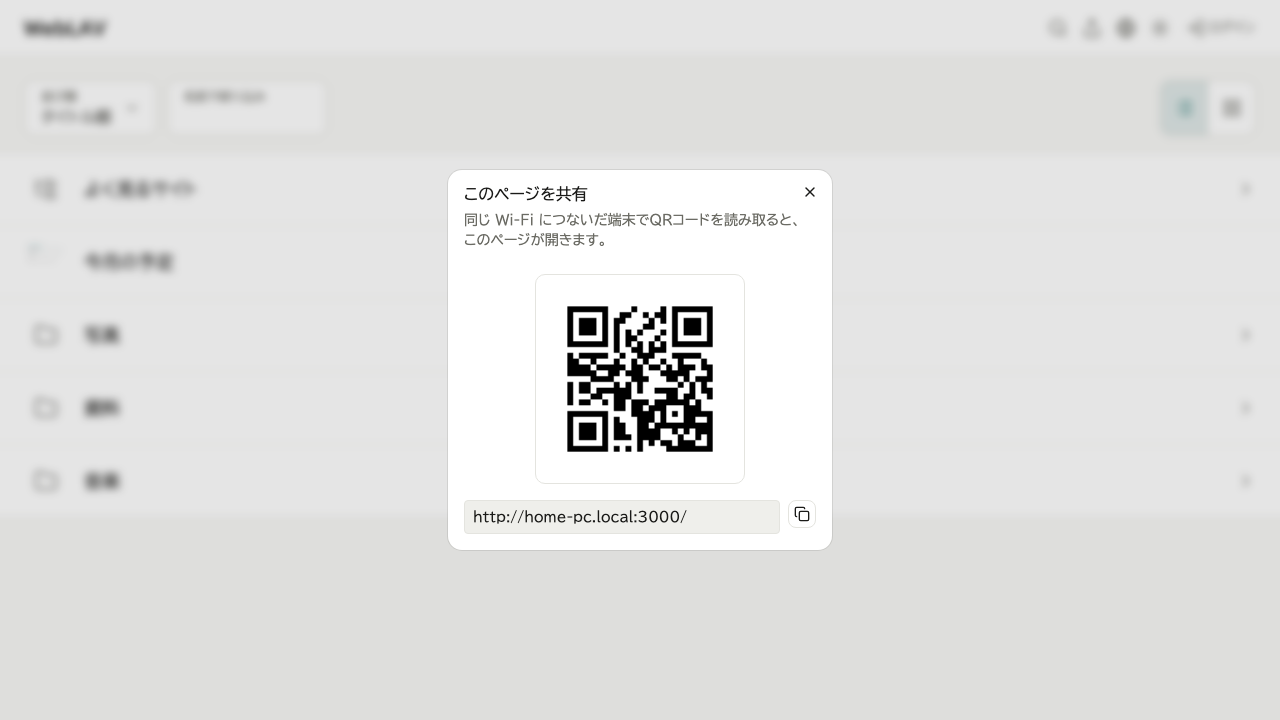
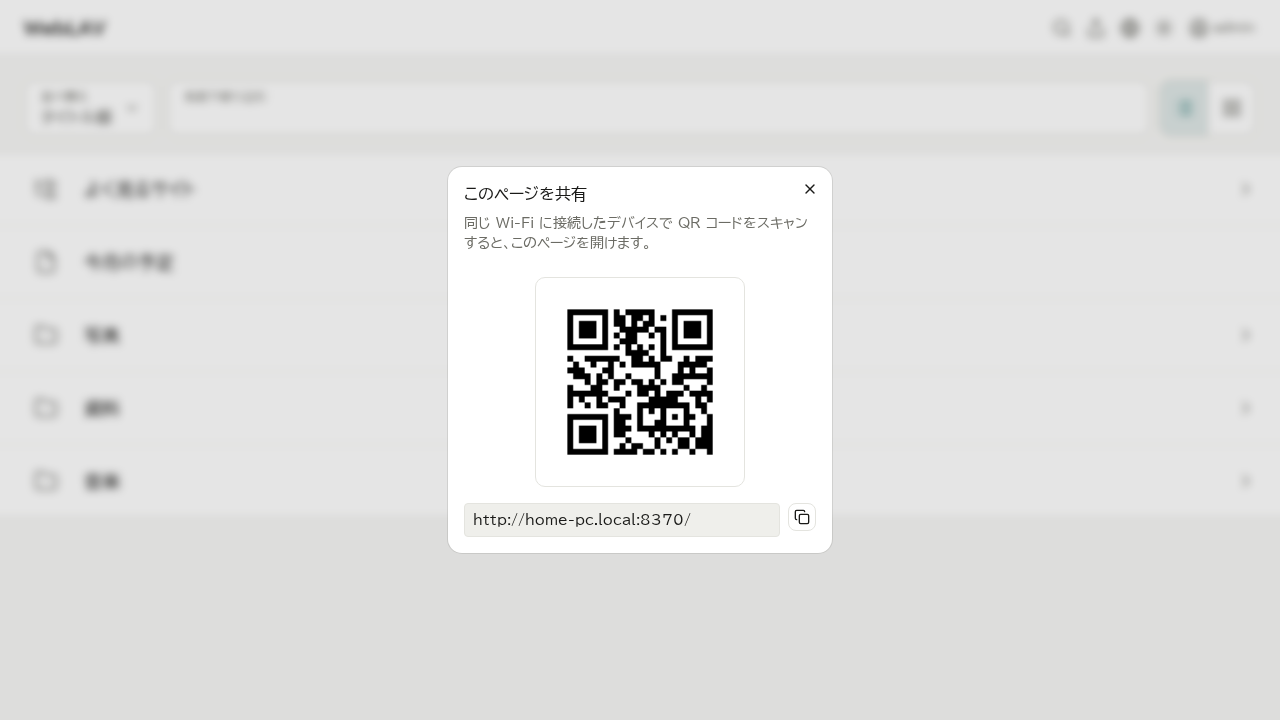
既定のポートを 3000 から 8370 にする
3000 は Node・Rails・Grafana などの開発用のツールが既定で使う番号で、ぶつかると WebLAV が 3001 にずれ、ほかの端末のブックマークや QR コードが開けなくなる。IANA で未割り当て (8352-8375) で、よく使われる番号とも重ならない 8370 にした。

- サーバーの設定の既定値と config.example.toml、そのテスト
- 開発用の画面の転送先 (vite) と、e2e・撮影のスクリプトの例
- マニュアル (ja・en) と docs/distribution.md の番号
- 紹介のサイトの共有の QR の画像を撮り直し、代替テキストの番号を直した

diff --git a/frontend/scripts/generate-spec.ts b/frontend/scripts/generate-spec.ts
@@ -1,7 +1,7 @@
 // `just spec` から呼ばれるアプリ仕様書ジェネレータ。
 //
 // 1. 一時 WEBLAV_HOME を作り、専用ポートで `target/debug/weblav-service` を起動する
-//    (開発中の dev-backend/:3000 と衝突しないように、かつ既存の開発用DBを汚さないように)。
+//    (開発中の dev-backend/:8370 と衝突しないように、かつ既存の開発用DBを汚さないように)。
 // 2. seed.sql を node:sqlite で直接流し込む(Rust側の変更なしでシードできる)。
 // 3. Playwright でスクリーンショットを撮り、paraglideのメッセージを直接importして文言を取る。
 //    各ショットは既定で desktop/tablet/mobile の3サイズを撮る(shots.ts の viewports で

diff --git a/frontend/scripts/flip-videos.ts b/frontend/scripts/flip-videos.ts
@@ -137,7 +137,7 @@ async function shootStory(
 		// 使い捨ての backend は 127.0.0.1 で待ち受けるので、そのままだと共有の画面が QR コードでなく
 		// 「他の端末からはつながりません」の案内になる。他の端末から開ける設置と同じ答えを返させる。
 		await context.route('**/api/v1/connection-info', (route) =>
-			route.fulfill({ json: { mdnsHostname: 'home-pc.local', port: 3000 } })
+			route.fulfill({ json: { mdnsHostname: 'home-pc.local', port: 8370 } })
 		);
 		if (account && !story.startsLoggedOut) {
 			const res = await context.request.post('/api/v1/auth/login', { data: account });

diff --git a/frontend/scripts/backend-process.ts b/frontend/scripts/backend-process.ts
@@ -3,7 +3,7 @@
 // `just spec` (generate-spec.ts)・`just e2e-local` (run-e2e.ts)・`just manual-shots` (manual-shots.ts) で共有する。
 //
 // 一時 WEBLAV_HOME と空きポートで起動するので、開発用 DB にも、並行して動いている
-// 開発サーバー (:3000) にも影響しない。呼び出し側は必ず `stop()` を呼ぶこと。
+// 開発サーバー (:8370) にも影響しない。呼び出し側は必ず `stop()` を呼ぶこと。
 
 import { spawn, type ChildProcess } from 'node:child_process';
 import { mkdtempSync, rmSync, writeFileSync } from 'node:fs';

diff --git a/frontend/e2e/anonymous.e2e.ts b/frontend/e2e/anonymous.e2e.ts
@@ -22,7 +22,7 @@ test.use({ storageState: EMPTY_STORAGE_STATE });
  * 既定のバックエンドの URL を添える。
  */
 function localeCookie(name: string, value: string, baseURL: string | undefined) {
-	return { name, value, url: baseURL ?? 'http://127.0.0.1:3000' };
+	return { name, value, url: baseURL ?? 'http://127.0.0.1:8370' };
 }
 
 test('ログインページにユーザー名・パスワード入力欄がある', async ({ page }) => {

diff --git a/frontend/playwright.config.ts b/frontend/playwright.config.ts
@@ -8,7 +8,7 @@ const baseURL = process.env.E2E_BASE_URL;
 if (!baseURL) {
 	throw new Error(
 		'E2E_BASE_URL が未設定です。backendを起動してからそのURLを設定して実行する: ' +
-			'E2E_BASE_URL=http://127.0.0.1:3000 E2E_ADMIN_PASSWORD=... pnpm run test:e2e'
+			'E2E_BASE_URL=http://127.0.0.1:8370 E2E_ADMIN_PASSWORD=... pnpm run test:e2e'
 	);
 }
 

diff --git a/frontend/vite.config.ts b/frontend/vite.config.ts
@@ -44,7 +44,7 @@ export default defineConfig({
 	server: {
 		// `pnpm run dev` 時、/api への呼び出しは weblav.exe の axum サーバー(固定ポート)へ委譲する。
 		proxy: {
-			'/api': 'http://127.0.0.1:3000'
+			'/api': 'http://127.0.0.1:8370'
 		}
 	},
 	test: {

diff --git a/src/tray/mod.rs b/src/tray/mod.rs
@@ -238,7 +238,7 @@ fn open_addr(addr: SocketAddr) -> SocketAddr {
     }
 }
 
-/// ブラウザーで開くときのオリジン (`http://localhost:3000` など)。
+/// ブラウザーで開くときのオリジン (`http://localhost:8370` など)。
 ///
 /// ループバックは `127.0.0.1` ではなく `localhost` と書く。`session.secure_cookie` を有効にすると、
 /// Edge・Chrome は HTTP の `127.0.0.1` ではログインの Cookie を受け取らず、`localhost` だけを
@@ -383,34 +383,34 @@ mod tests {
 
     #[test]
     fn unspecified_addr_becomes_loopback() {
-        let addr: SocketAddr = "0.0.0.0:3000".parse().unwrap();
-        assert_eq!(open_addr(addr), "127.0.0.1:3000".parse().unwrap());
+        let addr: SocketAddr = "0.0.0.0:8370".parse().unwrap();
+        assert_eq!(open_addr(addr), "127.0.0.1:8370".parse().unwrap());
     }
 
     #[test]
     fn loopback_addr_is_unchanged() {
-        let addr: SocketAddr = "127.0.0.1:3000".parse().unwrap();
+        let addr: SocketAddr = "127.0.0.1:8370".parse().unwrap();
         assert_eq!(open_addr(addr), addr);
     }
 
     #[test]
     fn browser_origin_names_the_loopback_localhost() {
-        let unspecified: SocketAddr = "0.0.0.0:3000".parse().expect("アドレスを解釈できなかった");
-        assert_eq!(browser_origin(unspecified), "http://localhost:3000");
+        let unspecified: SocketAddr = "0.0.0.0:8370".parse().expect("アドレスを解釈できなかった");
+        assert_eq!(browser_origin(unspecified), "http://localhost:8370");
         let loopback: SocketAddr = "127.0.0.1:3100"
             .parse()
             .expect("アドレスを解釈できなかった");
         assert_eq!(browser_origin(loopback), "http://localhost:3100");
-        let v6: SocketAddr = "[::1]:3000".parse().expect("アドレスを解釈できなかった");
-        assert_eq!(browser_origin(v6), "http://localhost:3000");
+        let v6: SocketAddr = "[::1]:8370".parse().expect("アドレスを解釈できなかった");
+        assert_eq!(browser_origin(v6), "http://localhost:8370");
         // `localhost` では届かないループバック・LAN のアドレスはそのまま。
-        let other_loopback: SocketAddr = "127.0.0.2:3000"
+        let other_loopback: SocketAddr = "127.0.0.2:8370"
             .parse()
             .expect("アドレスを解釈できなかった");
-        assert_eq!(browser_origin(other_loopback), "http://127.0.0.2:3000");
-        let lan: SocketAddr = "192.168.1.5:3000"
+        assert_eq!(browser_origin(other_loopback), "http://127.0.0.2:8370");
+        let lan: SocketAddr = "192.168.1.5:8370"
             .parse()
             .expect("アドレスを解釈できなかった");
-        assert_eq!(browser_origin(lan), "http://192.168.1.5:3000");
+        assert_eq!(browser_origin(lan), "http://192.168.1.5:8370");
     }
 }

diff --git a/src/config.rs b/src/config.rs
@@ -204,7 +204,8 @@ impl Default for ServerConfig {
         Self {
             // 理由は `config.example.toml` の bind コメント参照
             bind: IpAddr::V4(Ipv4Addr::UNSPECIFIED),
-            port: 3000,
+            // 理由は `config.example.toml` の port コメント参照
+            port: 8370,
         }
     }
 }
@@ -360,7 +361,7 @@ mod tests {
         let text = include_str!("../config.example.toml");
         let config: Config = toml::from_str(text).expect("config.example.toml should parse");
         assert_eq!(config.server.bind, IpAddr::V4(Ipv4Addr::UNSPECIFIED));
-        assert_eq!(config.server.port, 3000);
+        assert_eq!(config.server.port, 8370);
         assert_eq!(config.log.filter, "info");
         assert_eq!(config.log.output, LogOutput::File);
         assert_eq!(config.session.secret, "");
@@ -372,7 +373,7 @@ mod tests {
     #[test]
     fn empty_input_uses_defaults() {
         let config: Config = toml::from_str("").expect("empty input should use defaults");
-        assert_eq!(config.server.socket_addr().port(), 3000);
+        assert_eq!(config.server.socket_addr().port(), 8370);
         assert_eq!(config.log.output, LogOutput::File);
     }
 
@@ -398,7 +399,7 @@ mod tests {
     #[test]
     fn missing_file_falls_back_to_default() {
         let config = Config::load_from(Path::new("does/not/exist/config.toml")).unwrap();
-        assert_eq!(config.server.port, 3000);
+        assert_eq!(config.server.port, 8370);
     }
 
     #[test]

diff --git a/tests/api/settings.rs b/tests/api/settings.rs
@@ -79,7 +79,7 @@ async fn admin_can_save_server_settings_to_config_file(pool: SqlitePool) {
     std::fs::write(&config_path, "# 手で書いた\n[log]\nfilter = \"debug\"\n")
         .expect("config.toml を作れなかった");
     let cookie = admin_cookie(app.clone(), &pool).await;
-    let defaults = r#"{"port":3000,"uploadMaxSizeMb":100,"sessionExpiryDays":14}"#;
+    let defaults = r#"{"port":8370,"uploadMaxSizeMb":100,"sessionExpiryDays":14}"#;
 
     let (status, body) = send_empty(app.clone(), "GET", ADMIN_SERVER_SETTINGS_URI, &cookie).await;
     assert_eq!(status, StatusCode::OK, "{body}");
@@ -190,7 +190,7 @@ async fn server_settings_reject_out_of_range_values(pool: SqlitePool) {
         "PUT",
         ADMIN_SERVER_SETTINGS_URI,
         &cookie,
-        r#"{"port":3000,"uploadMaxSizeMb":100,"sessionExpiryDays":0}"#,
+        r#"{"port":8370,"uploadMaxSizeMb":100,"sessionExpiryDays":0}"#,
     )
     .await;
     assert_error(

diff --git a/src/server.rs b/src/server.rs
@@ -585,17 +585,17 @@ mod tests {
         let tmp = TempDir::new("already-running-addr");
         let running = AlreadyRunning {
             addr_path: tmp.path().join("weblav.addr"),
-            configured: "0.0.0.0:3000"
+            configured: "0.0.0.0:8370"
                 .parse()
                 .expect("アドレスの書き方が正しくない"),
         };
         assert_eq!(running.addr(), None, "書かれる前は None のはず");
 
-        std::fs::write(&running.addr_path, "0.0.0.0:3001").expect("weblav.addr を書けなかった");
+        std::fs::write(&running.addr_path, "0.0.0.0:8371").expect("weblav.addr を書けなかった");
         assert_eq!(
             running.addr(),
             Some(
-                "0.0.0.0:3001"
+                "0.0.0.0:8371"
                     .parse()
                     .expect("アドレスの書き方が正しくない")
             )
